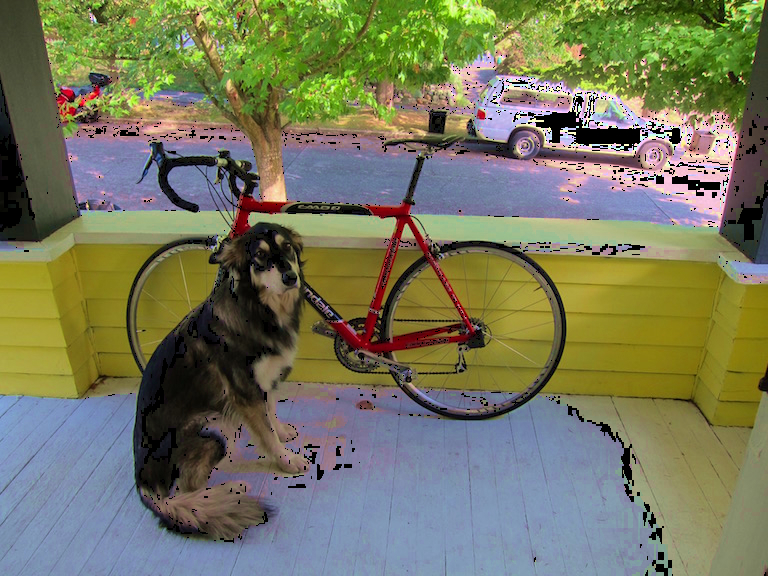
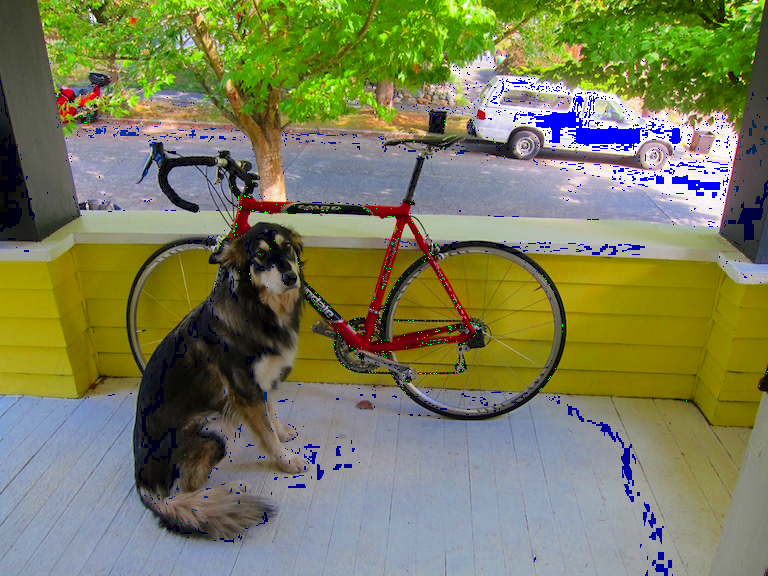
Task 8 done

diff --git a/src/process_image.c b/src/process_image.c
@@ -54,6 +54,16 @@ void shift_image(image im, int c, float v)
     }
 }
 
+// Adding a scaling function
+
+void scale_image(image im, int c, float v)
+{
+    for (int i = 0; i < im.w * im.h; i++)
+    {
+        im.data[i + im.w * im.h * c] *= v; // Multiplying since we are scaling
+    }
+}
+
 void clamp_image(image im)
 {
     for (int i = 0; i < im.w * im.h * im.c; i++)
@@ -165,8 +175,8 @@ void hsv_to_rgb(image im)
             im.data[i] = T, im.data[i + im.w * im.h] = P, im.data[i + 2 * im.w * im.h] = V;
         else if (5.0 <= H_ && H_ < 6.0)
             im.data[i] = V, im.data[i + im.w * im.h] = P, im.data[i + 2 * im.w * im.h] = Q;
-        else
-            im.data[i] = 0, im.data[i + im.w * im.h] = 0, im.data[i + 2 * im.w * im.h] = 0;
+        // else
+        //     im.data[i] = 0, im.data[i + im.w * im.h] = 0, im.data[i + 2 * im.w * im.h] = 0;
     }
     return;
 }

diff --git a/src/image.h b/src/image.h
@@ -1,11 +1,11 @@
 #ifndef IMAGE_H
 #define IMAGE_H
 
-typedef struct{
-    int w,h,c;
+typedef struct
+{
+    int w, h, c;
     float *data;
 } image;
-
 
 // Basic operations
 float get_pixel(image im, int x, int y, int c);
@@ -16,7 +16,7 @@ void rgb_to_hsv(image im);
 void hsv_to_rgb(image im);
 void shift_image(image im, int c, float v);
 void clamp_image(image im);
-
+void scale_image(image im, int c, float v);
 
 // Loading and saving
 image make_image(int w, int h, int c);
@@ -25,4 +25,3 @@ void save_image(image im, const char *name);
 void free_image(image im);
 
 #endif
-

diff --git a/uwimg.py b/uwimg.py
@@ -46,6 +46,9 @@ hsv_to_rgb.argtypes = [IMAGE]
 shift_image = lib.shift_image
 shift_image.argtypes = [IMAGE, c_int, c_float]
 
+scale_image = lib.scale_image
+scale_image.argtypes = [IMAGE, c_int, c_float]
+
 clamp_image = lib.clamp_image
 clamp_image.argtypes = [IMAGE]
 

diff --git a/tryit.py b/tryit.py
@@ -26,7 +26,8 @@ save_image(im, "doglight_fixed")
 # 6-7. Colorspace and saturation
 im = load_image("data/dog.jpg")
 rgb_to_hsv(im)
-shift_image(im, 1, .2)
+#shift_image(im, 1, .2)
+scale_image(im, 1, 2)
 clamp_image(im)
 hsv_to_rgb(im)
 save_image(im, "dog_saturated")
